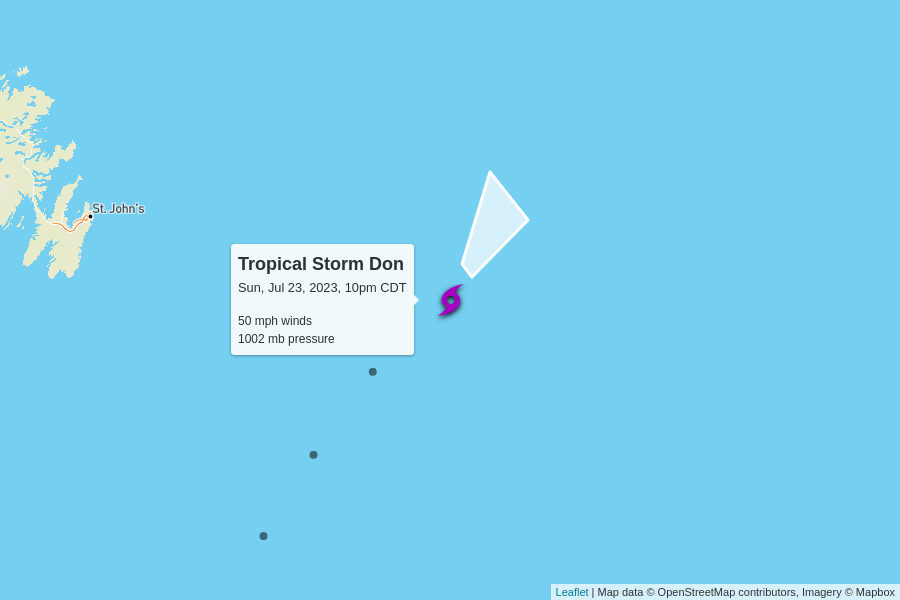
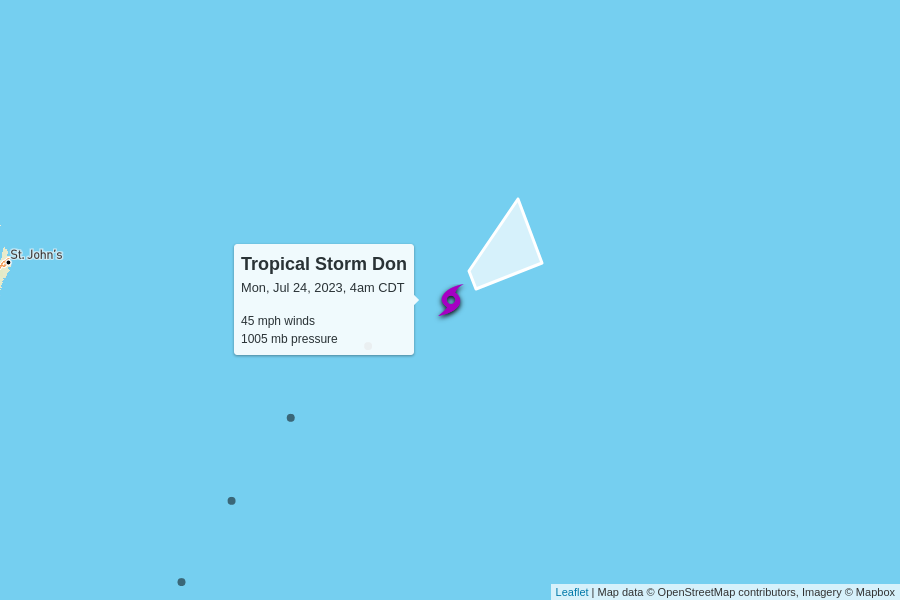
automatic update

diff --git a/docs/index.html b/docs/index.html
@@ -100,7 +100,7 @@
         <td colspan="6" class="storm category-0" >
           <h2>
             Tropical Storm Don
-            <p class="updated">last updated <span data-time>2023-07-24T03:00:00.000Z</span></p>
+            <p class="updated">last updated <span data-time>2023-07-24T09:00:00.000Z</span></p>
           </h2>
         </td>
       </tr>
@@ -115,12 +115,12 @@
       </tr>
       <tr>
         <td class="spacer"></td>
-        <td>50 mph</td>
-        <td>1002 mb</td>
+        <td>45 mph</td>
+        <td>1005 mb</td>
         <td>
-          20 mph to the northeast
+          18 mph to the east-northeast
           <br/>
-          <span style="display: inline-block; font-size: 1.5em; transform: rotate(40deg);">↑</span>
+          <span style="display: inline-block; font-size: 1.5em; transform: rotate(60deg);">↑</span>
         </td>
         <td><a href="https://raw.githubusercontent.com/mgwalker/atlantic-hurricanes/main/data/csv/AL052023.csv">AL052023.csv</a></td>
         <td><a href="https://www.nhc.noaa.gov/archive/2023/DON.shtml?">NHC advisories</a></td>
